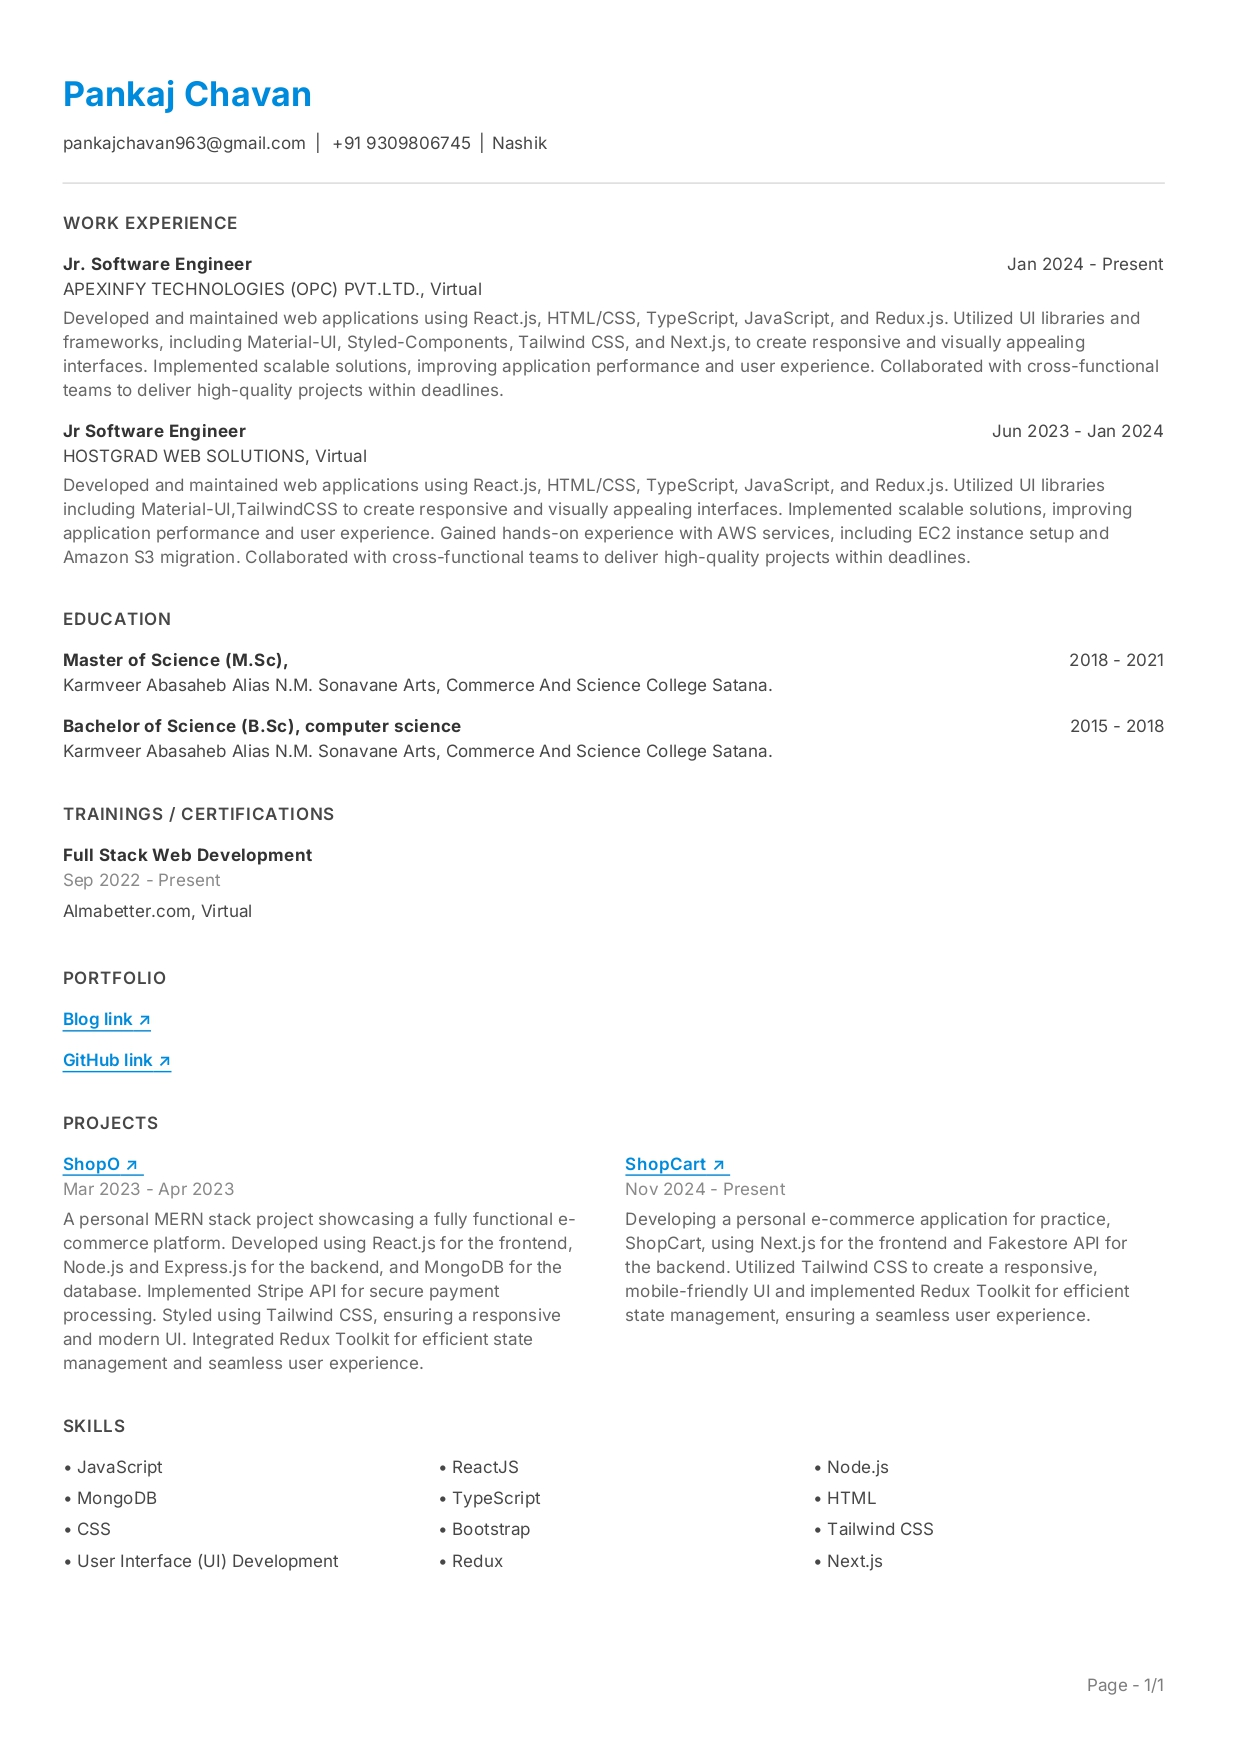
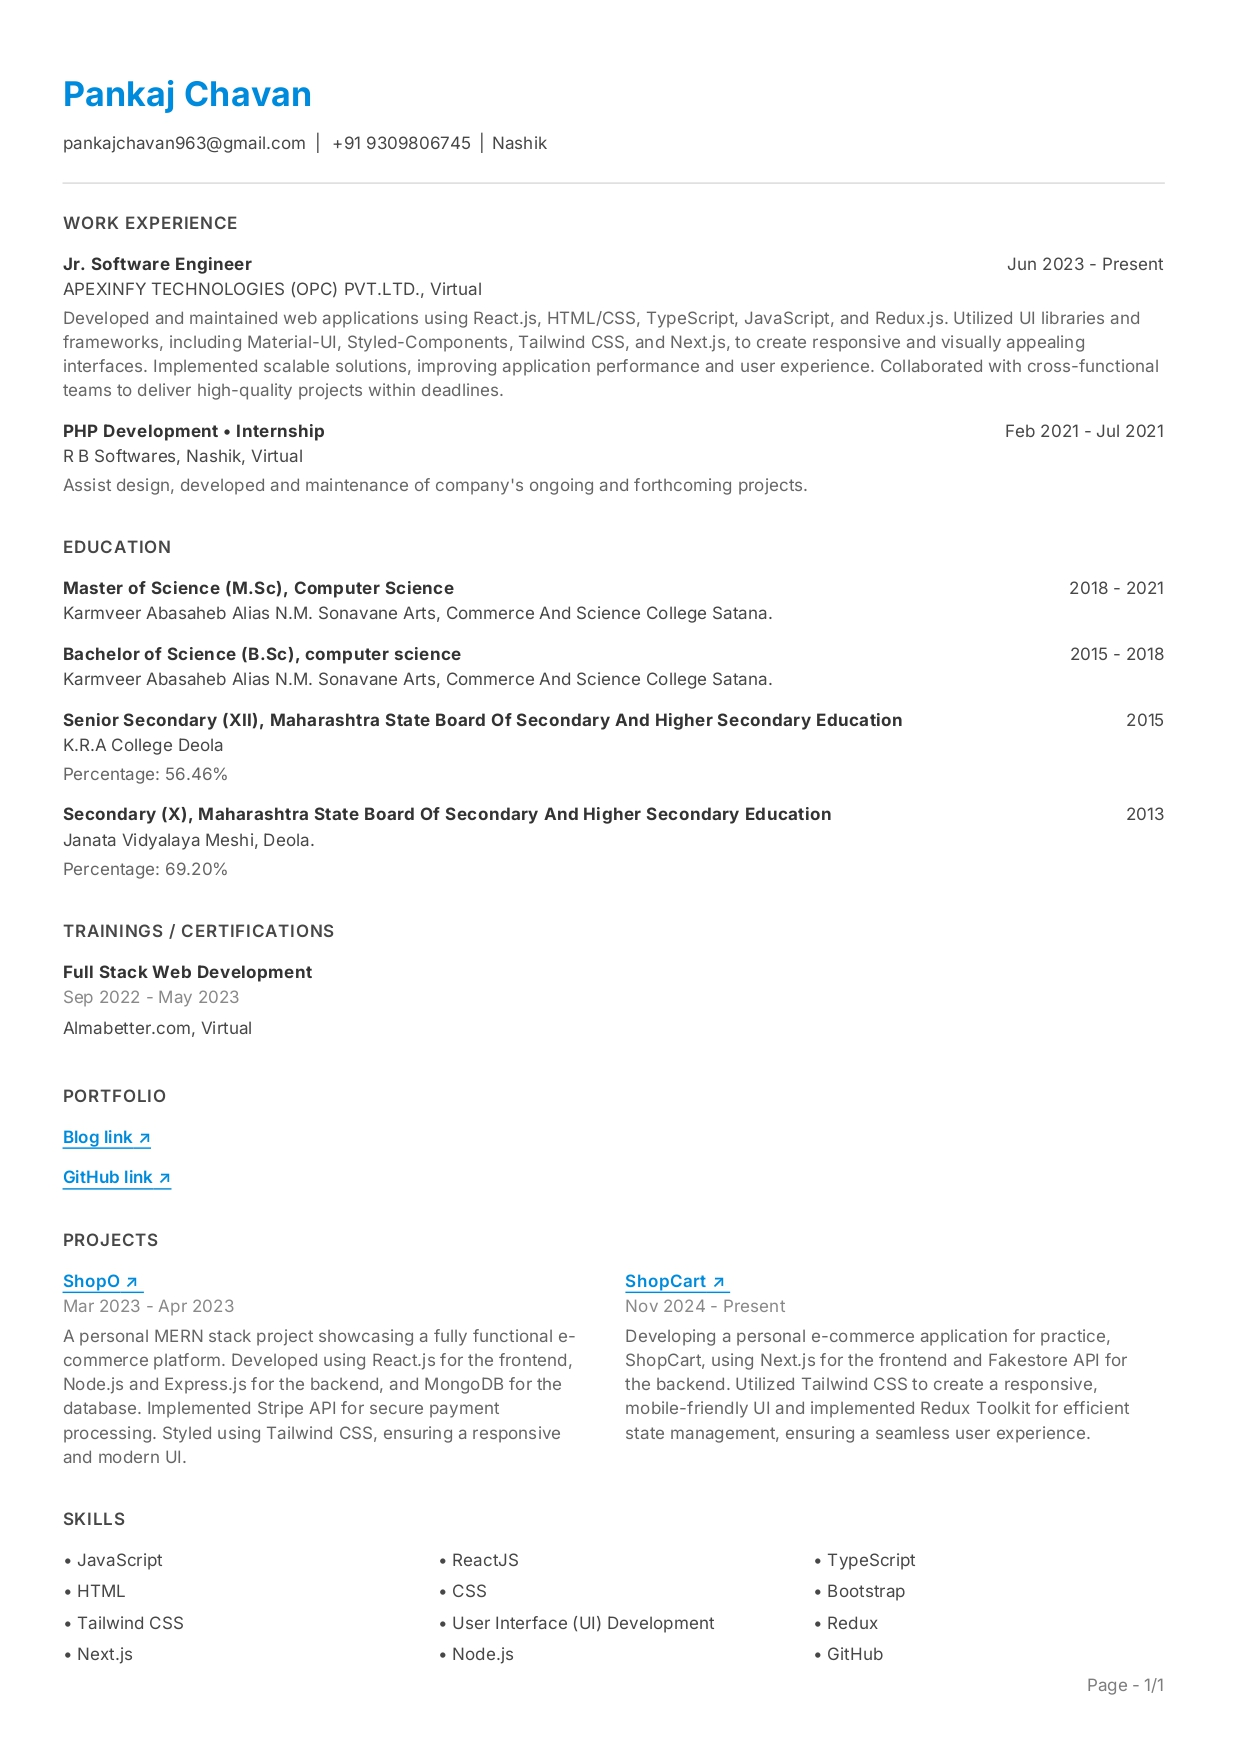
updated

diff --git a/src/components/About/Experience.jsx b/src/components/About/Experience.jsx
@@ -48,51 +48,11 @@ const Experience = () => {
                 </li>
               </ul>
               <footer className="blockquote-footer">
-                Junuary-2024 to current
+                June-2023 to current
               </footer>
             </div>
-            <hr />
 
-            <div className="p-3">
-              <p style={{ textAlign: "justify" }}>
-                <span className="purple">Jr. </span>Software Engineer
-                <br />
-               <span className="purple">  <FaCode /> </span>Frontend Developer
-                <br />
-                
-                <span className="purple"><GiPostOffice />{" "}
-                  </span>HOSTGRAD WEB SOLUTIONS, Kolkatta
-                <br />
-                <span className="purple"><MdOutlineSettingsRemote />{" "}
-                  </span>Remote
-                <br />
-                <br />
-                Skills
-              </p>
-              <ul>
-                <li className="about-activity">
-                  <ImPointRight /> Javascript
-                </li>
-                <li className="about-activity">
-                  <ImPointRight /> Typescript
-                </li>
-                <li className="about-activity">
-                  <ImPointRight /> Html/Css
-                </li>
-                <li className="about-activity">
-                  <ImPointRight /> ReactJs
-                </li>
-                <li className="about-activity">
-                  <ImPointRight /> NodeJs
-                </li>
-                <li className="about-activity">
-                  <ImPointRight /> AWS EC2(Migration)
-                </li>
-              </ul>
-              <footer className="blockquote-footer">
-                June-2023 to January-2024
-              </footer>
-            </div>
+            
             <hr />
             <div className="p-3">
               <p style={{ textAlign: "justify" }}>

diff --git a/src/index.css b/src/index.css
@@ -12,8 +12,8 @@ body {
 
 .download-icon-btn {
   position: absolute;
-  top: 40px; /* Adjust to your preference */
-  right: 40px; /* Adjust to your preference */
+  top: 50px; /* Adjust to your preference */
+  right: 50px; /* Adjust to your preference */
   color: #434242b2;
   /* background-color: rgba(0, 0, 0, 0.6); Semi-transparent background */
   border-radius: 50%;
@@ -24,8 +24,8 @@ body {
   text-decoration: none;
 }
 .download-icon-btn:hover{
-  background-color: #b2b2b2b2;
-color: #302f2fb2;
+  background-color: purple;
+color: #e0d0d0;
 }
 
 

diff --git a/public/404.html b/public/404.html
@@ -1,0 +1,7 @@
+<!DOCTYPE html>
+<html>
+<head>
+    <meta http-equiv="refresh" content="0; URL=./index.html" />
+</head>
+<body></body>
+</html>
